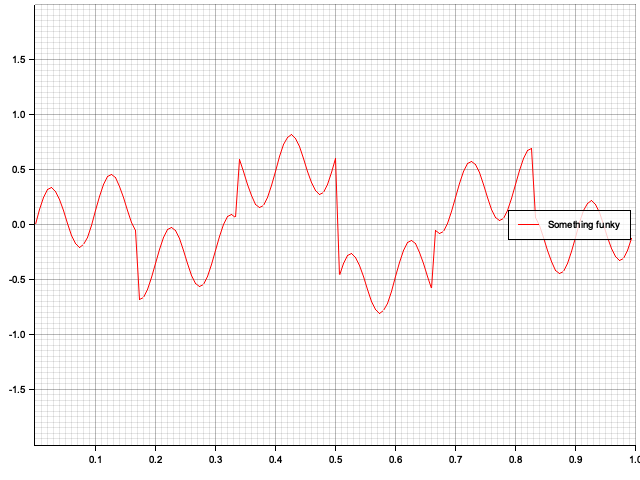
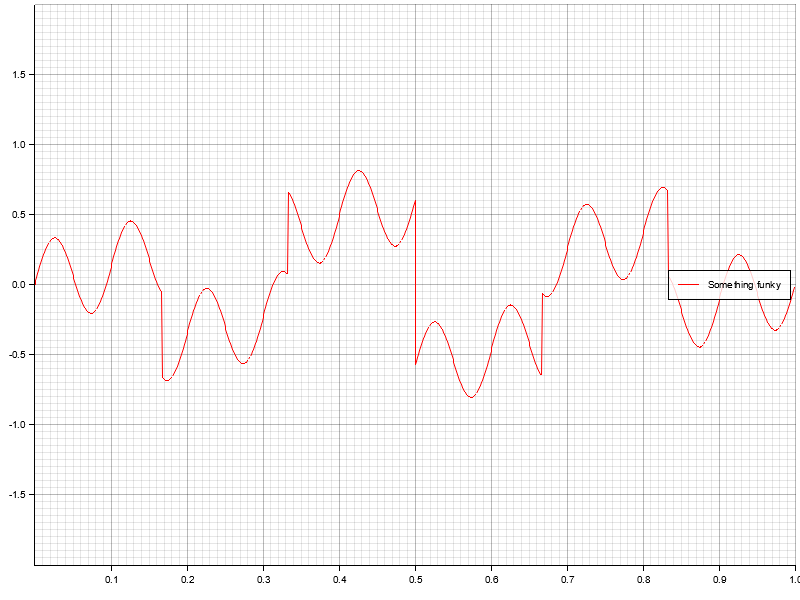
update plot.rs and readme (#7)

Changed region(s): [[0.0, 0.0, 1.0, 0.9688], [0.2188, 0.6875, 0.25, 0.7188], [0.125, 0.6875, 0.1562, 0.7188]]

diff --git a/examples/plot.rs b/examples/plot.rs
@@ -18,7 +18,7 @@ macro_rules! draw {
 }
 
 fn main() -> Result<(), Box<dyn std::error::Error>> {
-    let sample_rate = 400.0;
+    let sample_rate = 800.0;
 
     draw!(
         sample_rate,
@@ -68,6 +68,19 @@ fn main() -> Result<(), Box<dyn std::error::Error>> {
         )
     )?;
 
+    draw!(
+        sample_rate,
+        "sines_300_50_hz.png",
+        "Sine 300Hz + 50 Hz",
+        Waveform::<f32>::with_components(
+            sample_rate,
+            vec![
+                sine!(frequency = 300),
+                sine!(frequency = 50, amplitude = 0.3)
+            ]
+        )
+    )?;
+
     Ok(())
 }
 
@@ -77,7 +90,7 @@ fn draw_internal<I: IntoIterator<Item = (f32, f32)>, P: AsRef<Path>>(
     iter: I,
 ) -> Result<(), Box<dyn std::error::Error>> {
     let img_path = Path::new("img").join(path);
-    let root = BitMapBackend::new(&img_path, (640, 480)).into_drawing_area();
+    let root = BitMapBackend::new(&img_path, (800, 600)).into_drawing_area();
     root.fill(&WHITE)?;
     let mut chart = ChartBuilder::on(&root)
         // .caption(label, ("sans-serif", 50).into_font())

diff --git a/README.md b/README.md
@@ -31,6 +31,10 @@ let some_samples: Vec<f64> = wf.into_iter().take(200).collect();
 
 ![Superposed sines plot](img/sine_double.png)
 
+* "Real life" example: 300Hz sine signal with 50Hz interference noise
+
+![300_50_hz_sines](img/sines_300_50_hz.png)
+
 * Sawtooth
 
 ![Sawtooth plot](img/sawtooth.png)
